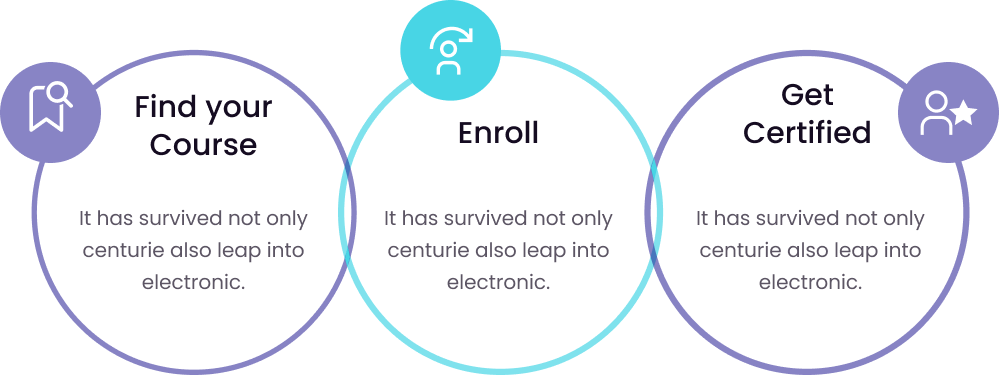
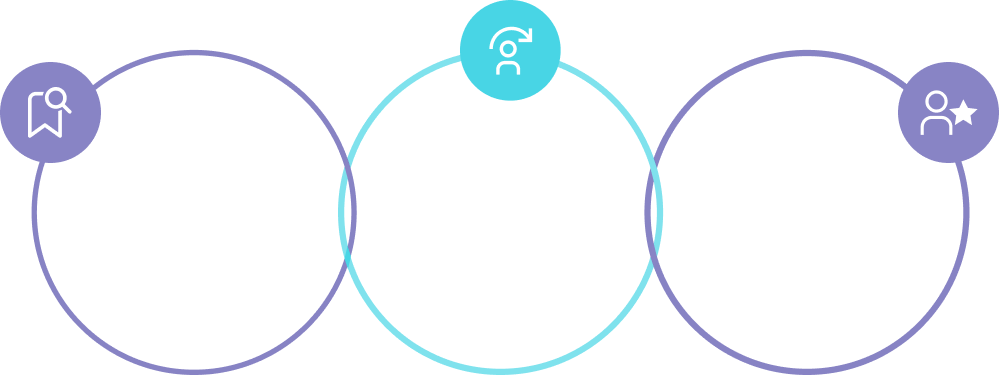
update

diff --git a/components/SeventhSection.vue b/components/SeventhSection.vue
@@ -1,15 +1,35 @@
 <template>
   <div class="section section-padding mt-n1">
     <div class="container">
-      <div class="section-title shape-03 text-center">
+      <div class="section-title text-center">
         <h2 class="main-title">How It Work?</h2>
       </div>
-      <div class="row mt-5">
-        <div class="col-1"></div>
-        <div class="col-10 how">
-          <img src="assets/images/howitworks.png" />
+      <div class="row how_it_works mt-5">
+        <div class="col-sm-4">
+            <div class="step-mom first-col">
+            <h4>Find your course</h4>
+            <p>It has survived not only centurie also leap into electronics </p>
+            
+            </div>
+            
         </div>
-        <div class="col-1"></div>
+        <div class="col-sm-4 middle-card">
+            <div class="step-mom second-col">
+            <h4>Enroll</h4>
+            <p>It has survived not only centurie also leap into electronics </p>
+            
+          
+            </div>
+            
+        </div>
+        <div class="col-sm-4" >
+            <div class="step-mom third-col">
+            <h4>Get Certified</h4>
+            <p>It has survived not only centurie also leap into electronics </p>
+            
+            </div>
+            
+        </div>
       </div>
       <div class="row b-btn">
           <button class="btn">Get Stated</button>
@@ -25,6 +45,15 @@ export default {
 </script>
 
 <style scoped>
+
+.how_it_works{
+  background: url("static/assets/images/howitworks.png");
+  background-repeat: no-repeat;
+  background-size: inherit;
+  background-position: center;
+  padding-top: 160px;
+    padding-bottom: 160px;
+}
 .how {
   justify-content: center;
 }
@@ -39,6 +68,20 @@ export default {
     width: 20%;
 }
 
+.step-mom h4{
+  padding-top: 20px;
+  padding-bottom: 20px;
+  font-weight: 500;
+  font-size: 33px;
+}
+
+
+
+.step-mom p{
+  font-size: 18px;
+  font-weight: 400;
+  line-height: 1.7;
+}
 .b-btn{
     justify-content: center;
 }
@@ -48,6 +91,27 @@ export default {
     background: #fff;
     border: 2px solid #150C21E5;
 }
+
+.step-mom{
+  text-align: center;
+}
+.first-col{
+  padding-left: 80px;
+  padding-right: 0px;
+
+}
+
+.second-col{
+  padding-left: 40px;
+  padding-right: 40px;
+
+}
+.third-col{
+  padding-left: 0px;
+  padding-right: 80px;
+
+}
+
 
 
 @media only screen and (max-width: 575px) {
